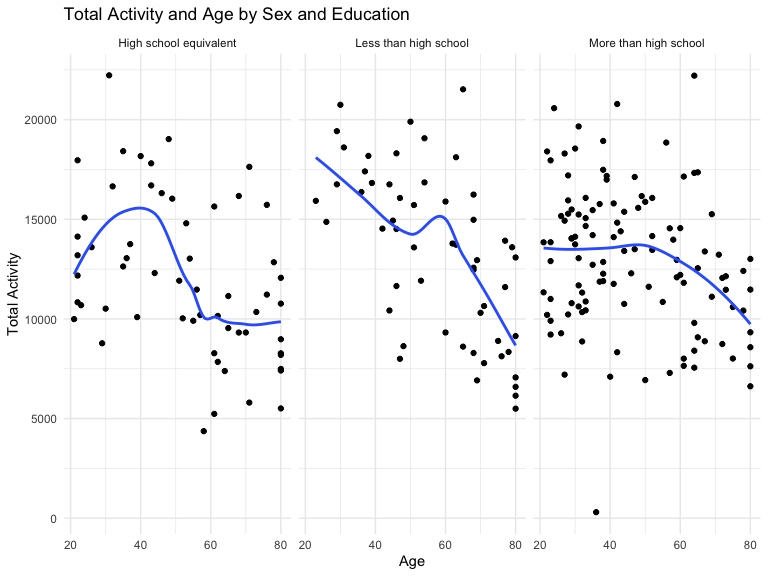
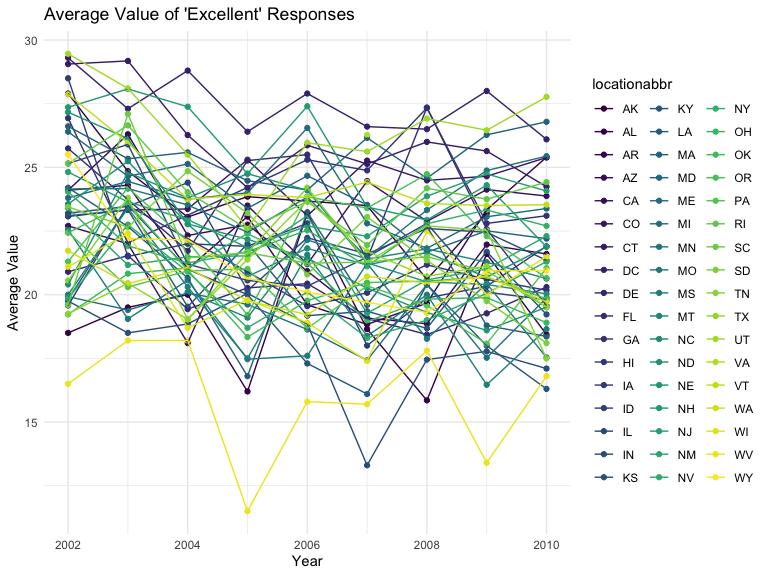
all done

diff --git a/p8105_hw3_zz3168.md b/p8105_hw3_zz3168.md
@@ -49,6 +49,121 @@ scale_colour_discrete = scale_colour_viridis_d
 scale_fill_discrete = scale_fill_viridis_d
 ```
 
+#### Read in the data
+
+``` r
+data("instacart")
+
+instacart = 
+  instacart |> 
+  as_tibble()
+```
+
+#### Answer questions about the data
+
+This dataset contains 1384617 rows and 15 columns, with each row
+resprenting a single product from an instacart order. Variables include
+identifiers for user, order, and product; the order in which each
+product was added to the cart. There are several order-level variables,
+describing the day and time of the order, and number of days since prior
+order. Then there are several item-specific variables, describing the
+product name (e.g. Yogurt, Avocado), department (e.g. dairy and eggs,
+produce), and aisle (e.g. yogurt, fresh fruits), and whether the item
+has been ordered by this user in the past. In total, there are 39123
+products found in 131209 orders from 131209 distinct users.
+
+Below is a table summarizing the number of items ordered from aisle. In
+total, there are 134 aisles, with fresh vegetables and fresh fruits
+holding the most items ordered by far.
+
+``` r
+instacart |> 
+  count(aisle) |> 
+  arrange(desc(n))
+```
+
+    ## # A tibble: 134 × 2
+    ##    aisle                              n
+    ##    <chr>                          <int>
+    ##  1 fresh vegetables              150609
+    ##  2 fresh fruits                  150473
+    ##  3 packaged vegetables fruits     78493
+    ##  4 yogurt                         55240
+    ##  5 packaged cheese                41699
+    ##  6 water seltzer sparkling water  36617
+    ##  7 milk                           32644
+    ##  8 chips pretzels                 31269
+    ##  9 soy lactosefree                26240
+    ## 10 bread                          23635
+    ## # ℹ 124 more rows
+
+Next is a plot that shows the number of items ordered in each aisle.
+Here, aisles are ordered by ascending number of items.
+
+``` r
+instacart |> 
+  count(aisle) |> 
+  filter(n > 10000) |> 
+  mutate(aisle = fct_reorder(aisle, n)) |> 
+  ggplot(aes(x = aisle, y = n)) + 
+  geom_point() + 
+  labs(title = "Number of items ordered in each aisle") +
+  theme(axis.text.x = element_text(angle = 60, hjust = 1))
+```
+
+<img src="p8105_hw3_zz3168_files/figure-gfm/unnamed-chunk-5-1.png" width="90%" />
+
+Our next table shows the three most popular items in aisles
+`baking ingredients`, `dog food care`, and `packaged vegetables fruits`,
+and includes the number of times each item is ordered in your table.
+
+``` r
+instacart |> 
+  filter(aisle %in% c("baking ingredients", "dog food care", "packaged vegetables fruits")) |>
+  group_by(aisle) |> 
+  count(product_name) |> 
+  mutate(rank = min_rank(desc(n))) |> 
+  filter(rank < 4) |> 
+  arrange(desc(n)) |>
+  knitr::kable()
+```
+
+| aisle                      | product_name                                  |    n | rank |
+|:---------------------------|:----------------------------------------------|-----:|-----:|
+| packaged vegetables fruits | Organic Baby Spinach                          | 9784 |    1 |
+| packaged vegetables fruits | Organic Raspberries                           | 5546 |    2 |
+| packaged vegetables fruits | Organic Blueberries                           | 4966 |    3 |
+| baking ingredients         | Light Brown Sugar                             |  499 |    1 |
+| baking ingredients         | Pure Baking Soda                              |  387 |    2 |
+| baking ingredients         | Cane Sugar                                    |  336 |    3 |
+| dog food care              | Snack Sticks Chicken & Rice Recipe Dog Treats |   30 |    1 |
+| dog food care              | Organix Chicken & Brown Rice Recipe           |   28 |    2 |
+| dog food care              | Small Dog Biscuits                            |   26 |    3 |
+
+Finally is a table showing the mean hour of the day at which Pink Lady
+Apples and Coffee Ice Cream are ordered on each day of the week. Pink
+Lady Apples are generally purchased slightly earlier in the day than
+Coffee Ice Cream, with the exception of day 5.
+
+``` r
+instacart |>
+  filter(product_name %in% c("Pink Lady Apples", "Coffee Ice Cream")) |>
+  group_by(product_name, order_dow) |>
+  summarize(mean_hour = mean(order_hour_of_day)) |>
+  pivot_wider(
+    names_from = order_dow, 
+    values_from = mean_hour) |>
+  knitr::kable(digits = 2)
+```
+
+    ## `summarise()` has grouped output by 'product_name'. You can override using the
+    ## `.groups` argument.
+
+| product_name     |     0 |     1 |     2 |     3 |     4 |     5 |     6 |
+|:-----------------|------:|------:|------:|------:|------:|------:|------:|
+| Coffee Ice Cream | 13.77 | 14.32 | 15.38 | 15.32 | 15.22 | 12.26 | 13.83 |
+| Pink Lady Apples | 13.44 | 11.36 | 11.70 | 14.25 | 11.55 | 12.78 | 11.94 |
+
 ## Problem 2
 
 ``` r
@@ -78,6 +193,10 @@ brfss_state_2010 =
   summarize(location_num = n_distinct(locationdesc)) |> 
   filter(location_num >= 7 )
 ```
+
+According to the data, we observe there are 6 states at 7 or more
+locations in 2002. and there are 14 states at 7 or more locations in
+2010.
 
 \#construct a dataset
 
@@ -109,7 +228,11 @@ ggplot(
   theme_minimal()
 ```
 
-<img src="p8105_hw3_zz3168_files/figure-gfm/unnamed-chunk-5-1.png" width="90%" />
+<img src="p8105_hw3_zz3168_files/figure-gfm/unnamed-chunk-10-1.png" width="90%" />
+
+I construct the dataset call `dataset_exce`, which contain the `year`,
+`state`, and `avg_value`. and make a “spaghetti” plot showing a line for
+each state across years .
 
 \#two-panel plot
 
@@ -121,7 +244,12 @@ clean_data |>
   facet_grid(~year)
 ```
 
-<img src="p8105_hw3_zz3168_files/figure-gfm/unnamed-chunk-6-1.png" width="90%" />
+<img src="p8105_hw3_zz3168_files/figure-gfm/unnamed-chunk-11-1.png" width="90%" />
+
+According to the two-panel plot, the years 2006 and 2010 are showing the
+different values about `poor`, `good`, `Very good`,`excellent`. Base on
+the plot, the `Good` and `Very good` at the highest value in 2006 and
+2010.
 
 ### Problem 3
 
@@ -198,6 +326,8 @@ parti_data |>
     ##   Less than high school      28   27
     ##   More than high school      59   56
 
+The table show the participants from different education level and sex.
+
 ``` r
 parti_data |> 
   ggplot(aes(x = age, fill = sex)) +
@@ -211,7 +341,13 @@ parti_data |>
   theme_minimal()
 ```
 
-<img src="p8105_hw3_zz3168_files/figure-gfm/unnamed-chunk-9-1.png" width="90%" />
+<img src="p8105_hw3_zz3168_files/figure-gfm/unnamed-chunk-14-1.png" width="90%" />
+
+The three-panel plot that shows the 24-hour activity time courses for
+each education level and classified into men and women. In the education
+level, the `High school equivalent` and `less rha high school`’s female
+is skewed to the left. And in the distribuction, male is bimodel
+distribution and skewed to the left.
 
 \##question 2
 
@@ -219,7 +355,7 @@ parti_data |>
 nahanes_merge |> 
   group_by(seqn, sex, age, education) |> 
   summarize(total_activity = sum(activity_time)) |> 
-  ggplot(aes(x = age, y = total_activity)) +
+  ggplot(aes(x = age, y = total_activity, color = sex)) +
   geom_point() +
   geom_smooth(se = FALSE)+
   facet_grid(~ education) +
@@ -235,7 +371,13 @@ nahanes_merge |>
     ## using the `.groups` argument.
     ## `geom_smooth()` using method = 'loess' and formula = 'y ~ x'
 
-<img src="p8105_hw3_zz3168_files/figure-gfm/unnamed-chunk-10-1.png" width="90%" />
+<img src="p8105_hw3_zz3168_files/figure-gfm/unnamed-chunk-15-1.png" width="90%" />
+
+according to the three-panel plot, ot show that the total activity level
+over the eduaction level and age. and based on the panel distriction, we
+observe the lines is trend to decresing in all three education level.
+and in the `High school equivalent` and `More than high school`, female
+both have higher value than male.
 
 \##question 3 Make a three-panel plot
 
@@ -254,4 +396,10 @@ nahanes_merge |>
 
     ## `geom_smooth()` using method = 'gam' and formula = 'y ~ s(x, bs = "cs")'
 
-<img src="p8105_hw3_zz3168_files/figure-gfm/unnamed-chunk-11-1.png" width="90%" />
+<img src="p8105_hw3_zz3168_files/figure-gfm/unnamed-chunk-16-1.png" width="90%" />
+
+The three-panel plot that shows the 24-hour activity time courses for
+each education level and the color is based on the sex. And the line of
+female and male is similar in each education level in
+`High school equivalent` , `Less than high school` and
+`More than high school`.
